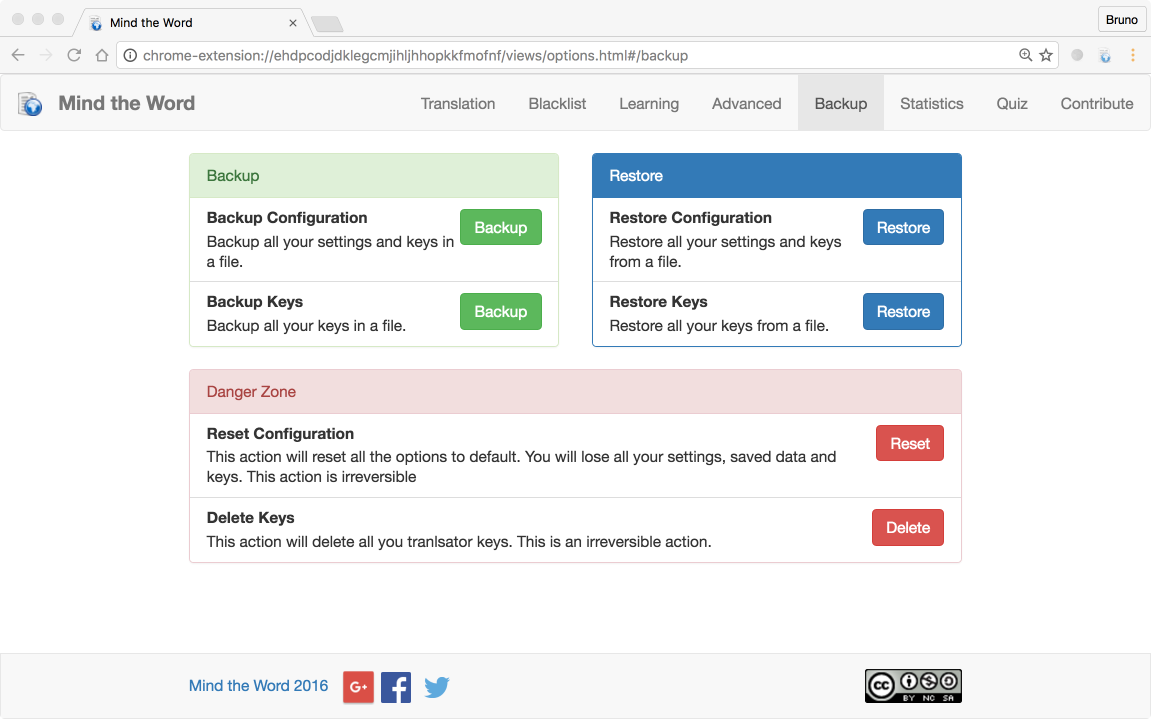
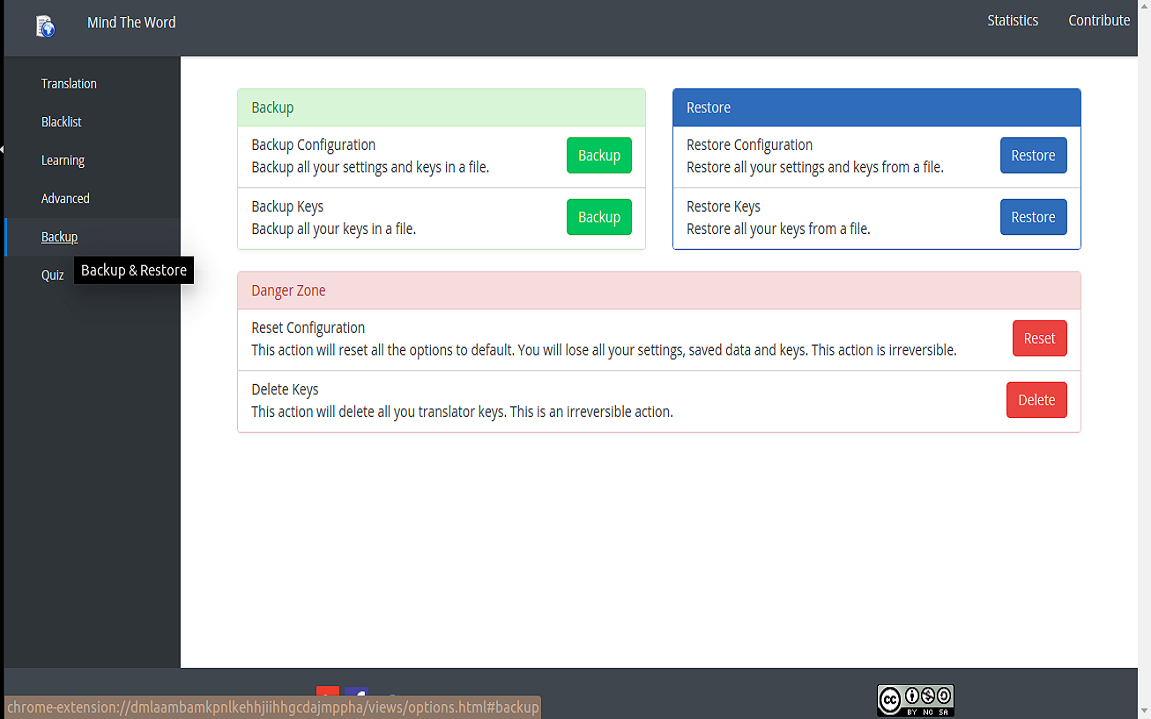
Updation of screenshots folder with new theme UI

diff --git a/lib/views/options.html b/lib/views/options.html
@@ -65,9 +65,6 @@
             <a href="#quiz" data-toggle="tab" data-translate="quiz" data-placement="right" title="Quiz that tests knowledge of learnt new language words so far!">Quiz</a>
           </li>
           
-          <li>
-            <a href="#troubleshooting" data-toggle="tab" data-translate="troubleshooting">Troubleshooting</a>
-          </li>
         </ul>
       </nav>
 

diff --git a/screenshots/README.md b/screenshots/README.md
@@ -1,0 +1,9 @@
+MindTheWord
+===========
+An extension for Google Chrome that helps people learn new languages while they browse the web.
+
+
+Screenshots showcase the look and functionality of MindTheWord Browser Externsion that translates a webpage into user's desired language selected.
+
+
+These screenshots are being used to display in Google chrome's web extensions store. Link : [![https://chrome.google.com/webstore/detail/mind-the-word/fabjlaokbhaoehejcoblhahcekmogbom](https://developer.chrome.com/webstore/images/ChromeWebStore_BadgeWBorder_v2_340x96.png)](https://chrome.google.com/webstore/detail/mind-the-word/fabjlaokbhaoehejcoblhahcekmogbom)
